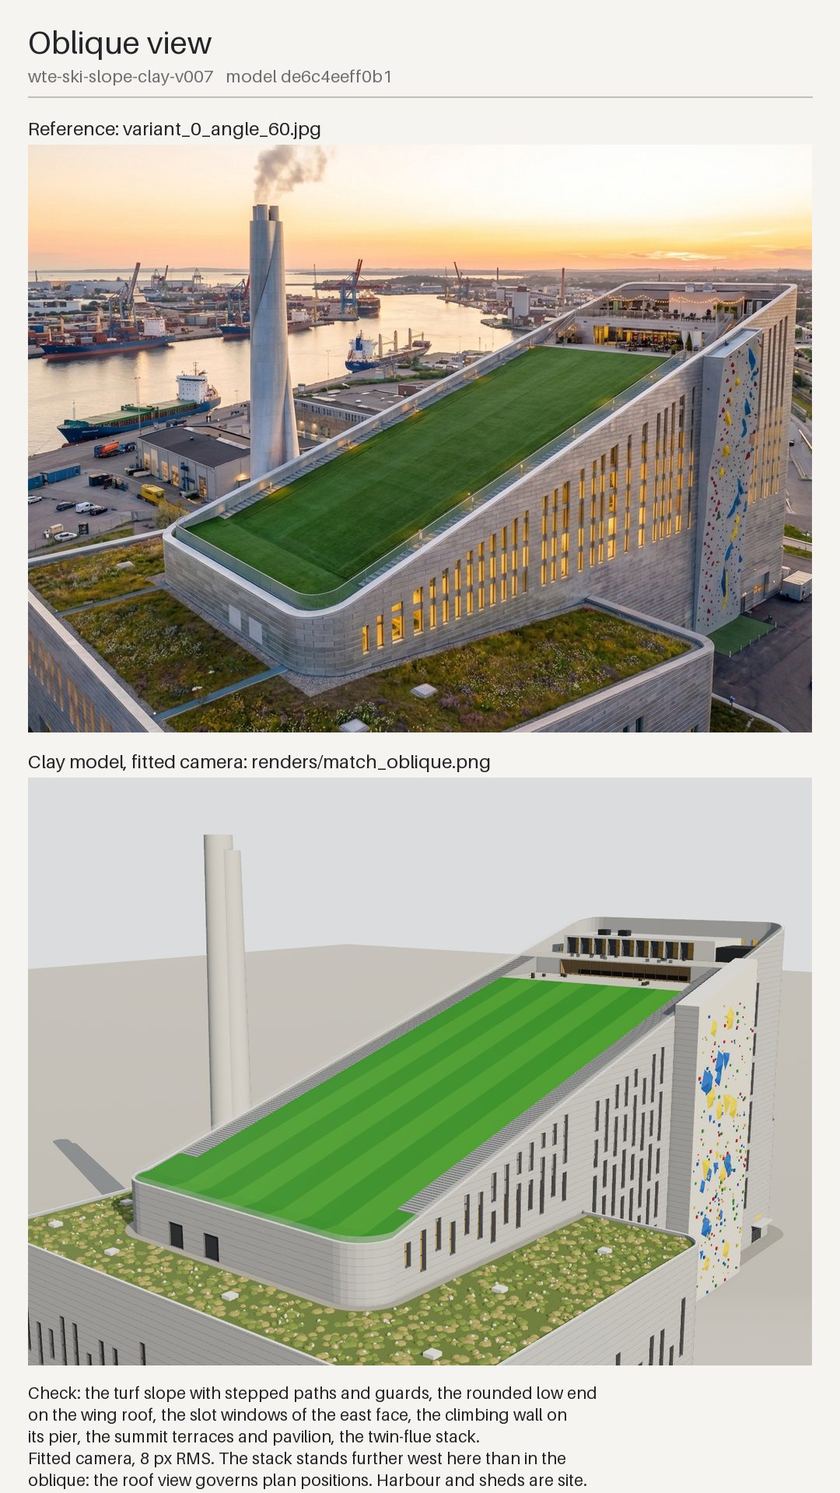
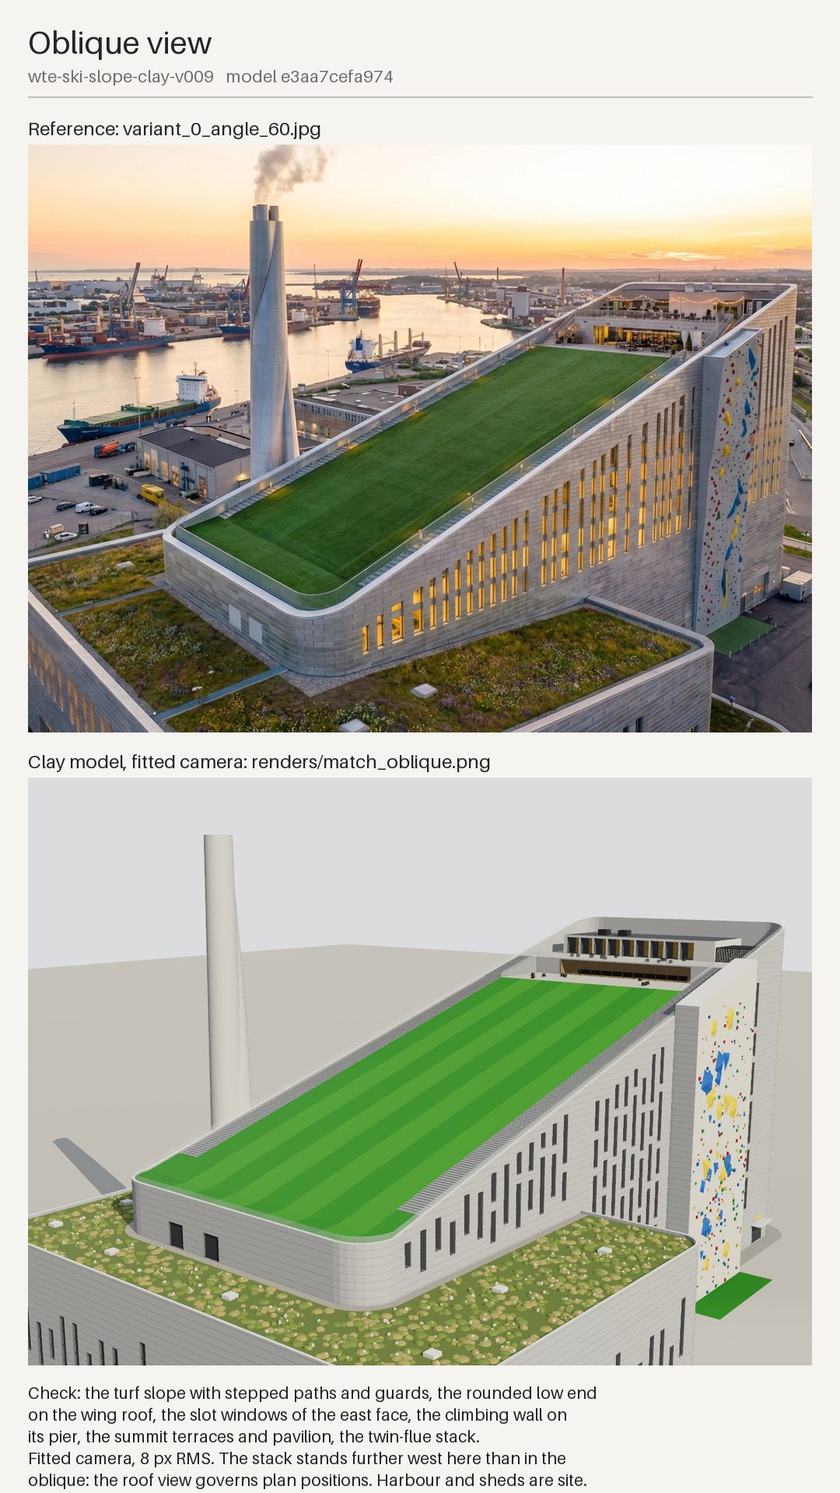
Answer the ski-slope plant's first review with v009
The v007 independent review refused the model with four P1 findings.
v009 answers them:

- The parapets' inside faces are drawn piece by piece from the walking
  surface, so no panel blocks the slot windows.
- Slot windows stop 1.2 m below the roof above them.
- The climbing pier is closed behind, and its holds stand off the panel.
- The summit flights are guarded.

Five notes are answered as well: the north corners, deeper slot rooms,
a winding twin flue, roof and door details, and the wing coping. The
repeat review is pending.

Claude-Session: https://claude.ai/code/session_01Qre8Fgc7mAHy1S8q3QQMRz

diff --git a/tools/catalogue_ski_slope_plant_pilot/build.py b/tools/catalogue_ski_slope_plant_pilot/build.py
@@ -68,9 +68,13 @@ SERVICE = [(-15.6, -11.8), (-6.4, -2.6)]          # service doors from the wing 
 WINGS = [(-47.7, -95.5, -HALF_W, -.6), (-47.7, -95.5, 55.3, -HALF_L), (HALF_W, -95.5, 55.3, -19.0),   # x0, y0, x1, y1
          (-41.8, -.6, -HALF_W, 47.3)]          # the west wing narrows to a strip running north beside the block
 WING_CORNER = 5.0
-STACK = ((-38.2, -46.5), 100.0, (3.6, 2.8), (1.9, 1.1), 97.0, (3.0, 2.2))   # main flue centre, top, radii; second flue offset, top, radii
+STACK = ((-38.2, -46.5), 100.0, (3.6, 2.8), (1.9, 1.1), 100.0, (3.0, 2.2))  # main flue centre, top, radii; second flue offset, top, radii
+TWIST = 110.0                                     # the second flue winds this far round the first, in degrees, base to top
 SLOT = (1.4, 3.7, 1.6)                            # slot windows: width, column spacing, gap between stacked slots
 COURSE = 1.25                                     # aluminium brick courses
+SLOT_ROOM = 1.4                                   # lit room face behind each slot window, from the outer face
+UNDER_FLOOR = 1.2                                 # slot windows stop this far below the roof's walking surface above them
+PAD = (35.3, 43.3, 16.3, 45.3)                    # turf pad at the foot of the climbing wall: x and y range
 APRON = 4.0
 
 PALETTE = {  # role -> flat colour (sRGB), in node order
@@ -91,6 +95,7 @@ PALETTE = {  # role -> flat colour (sRGB), in node order
     'furniture': {'colour': '#4b4540', 'module': 'summit terraces'},
     'pavilion': {'colour': '#d2d3d0', 'module': 'summit pavilion'},
     'grille': {'colour': '#3c4045', 'module': 'plant'},
+    'roof_dark': {'colour': '#5d6267', 'module': 'summit pavilion'},
     'roofgreen': {'colour': '#6c7b42', 'module': 'wing roofs'},
     'planting': {'colour': '#7a8a46', 'module': 'wing roofs'},
     'meadow': {'colour': '#a39a5f', 'module': 'wing roofs'},
@@ -120,6 +125,20 @@ def walk(y):
 
 Z_LOWER = walk(TERRACE_Y[0])
 Z_UPPER = Z_LOWER + UPPER_STEP
+
+
+def floor_at(y):
+    """The roof's walking surface at plan y: the slope, then the lower and upper summit terraces."""
+    if y >= TERRACE_Y[1]:
+        return Z_UPPER
+    if y >= TERRACE_Y[0]:
+        return Z_LOWER
+    return walk(y)
+
+
+def under_roof(y, half=1.0):
+    """Highest a slot window may reach at plan y: below the lowest walking surface within `half` metres."""
+    return min(floor_at(y - half), floor_at(y), floor_at(y + half)) - UNDER_FLOOR
 
 
 # ---- helpers ---------------------------------------------------------------------------------------
@@ -172,7 +191,9 @@ def main_block():
 def footprint():
     """The whole building at grade: the main block and its wings, convex corners rounded."""
     parts = [box(-HALF_W, -HALF_L, HALF_W, HALF_L)] + [box(*w) for w in WINGS]
-    return orient(shapely.union_all(parts).buffer(-WING_CORNER, quad_segs=8).buffer(WING_CORNER, quad_segs=8), 1.0)
+    whole = shapely.union_all(parts).buffer(-WING_CORNER, quad_segs=8).buffer(WING_CORNER, quad_segs=8)
+    slivers = box(-HALF_W, 0.0, HALF_W, HALF_L).difference(main_block())     # the block's own corner radius where it meets the ground
+    return orient(whole.difference(slivers), 1.0)
 
 
 # ---- facades with real openings --------------------------------------------------------------------
@@ -204,7 +225,7 @@ def build_face(clay, face, openings, role='cladding', courses=True):
     for o in openings:
         (u0, u1), (z0, z1) = o['u'], o['z']
         kind = o.get('kind', 'slot')
-        depth = o.get('depth', .9 if kind == 'slot' else .35)
+        depth = o.get('depth', SLOT_ROOM if kind == 'slot' else .35)
         reveal = 'reveal'
         corners = [(u0, z0), (u1, z0), (u1, z1), (u0, z1)]
         for (ua, za), (ub, zb) in pairwise(corners + corners[:1]):          # reveals, facing into the opening
@@ -254,7 +275,7 @@ def course_lines(clay, face, solid):
         z += COURSE
 
 
-def slot_columns(u_range, base, top, skip=(), seed=0):
+def slot_columns(u_range, base, top, skip=(), seed=0, limit=None):
     """Tall slot windows in staggered columns: each column a stack of slots of varied height."""
     width, spacing, gap = SLOT
     out = []
@@ -263,6 +284,8 @@ def slot_columns(u_range, base, top, skip=(), seed=0):
     while u <= u_range[1]:
         if not any(a - width <= u <= b + width for a, b in skip):
             z_lo, z_hi = base(u) + (8.0 if base(u) < 1 else 2.0), top(u) - (4.5 if base(u) < 1 else 2.2)
+            if limit is not None:
+                z_hi = min(z_hi, limit(u))
             z = z_lo + (k * 2.3) % 4.0
             j = k
             while z + 2.4 < z_hi:
@@ -291,17 +314,23 @@ def main_facades(clay):
     # east face (u = y, northward): the street front
     east = Face((HALF_W, 0.0), (0.0, 1.0), [(s0, HP), (WINGS[2][3], HP), (WINGS[2][3], 0.0), (s1, 0.0), (s1, parapet(s1)), (s0, parapet(s0))])
     openings = slot_columns((s0 + 3.0, s1 - 3.0), east_base, parapet, skip=[(PIER[2] - 1.0, PIER[3] + 1.0), (ENTRANCE[0] - 1.5, ENTRANCE[1] + 1.5),
-                                                                           (WINGS[2][3] - 2.0, WINGS[2][3] + 2.0)], seed=1)
+                                                                           (WINGS[2][3] - 2.0, WINGS[2][3] + 2.0)], seed=1, limit=under_roof)
     openings.append({'u': ENTRANCE[:2], 'z': (0.0, ENTRANCE[2]), 'kind': 'entrance', 'depth': 4.0})
     build_face(clay, east, openings)
     # west face (u = -y, southward)
     west = Face((-HALF_W, 0.0), (0.0, -1.0), [(-s1, 0.0), (-WINGS[3][3], 0.0), (-WINGS[3][3], HP), (-s0, HP), (-s0, parapet(s0)), (-s1, parapet(s1))])
     build_face(clay, west, slot_columns((-s1 + 3.0, -s0 - 3.0), lambda u: west_base(-u), lambda u: parapet(-u),
-                                        skip=[(-WINGS[3][3] - 2.0, -WINGS[3][3] + 2.0)], seed=4))
+                                        skip=[(-WINGS[3][3] - 2.0, -WINGS[3][3] + 2.0)], seed=4, limit=lambda u: under_roof(-u)))
     # north face (u = -x, westward): roller doors at grade, slots above
     north = Face((0.0, HALF_L), (-1.0, 0.0), [(-w1, 0.0), (-w0, 0.0), (-w0, HS), (-w1, HS)])
     doors = [{'u': (-b, -a), 'z': (0.0, 9.0), 'kind': 'door', 'depth': .4} for a, b in LOADING]
-    slots = [s for s in slot_columns((-w1 + 2.5, -w0 - 2.5), lambda u: 0.0, lambda u: HS, seed=2) if s['z'][0] > 12.0]
+    for a, b in LOADING:                                                   # slats of the roller doors
+        z = .45
+        while z < 9.0:
+            bar_box(clay, north, (-b, -a), (z - .03, z + .03), .34, .4)
+            z += .45
+    slots = [s for s in slot_columns((-w1 + 2.5, -w0 - 2.5), lambda u: 0.0, lambda u: HS, seed=2, limit=lambda u: Z_UPPER - UNDER_FLOOR)
+             if s['z'][0] > 12.0]
     build_face(clay, north, doors + slots)
     # south face (u = x, eastward): the low end above the wing roof, with two service doors
     south = Face((0.0, -HALF_L), (1.0, 0.0), [(w0, HP), (w1, HP), (w1, H0), (w0, H0)])
@@ -343,13 +372,15 @@ def pier(clay):
                                                      (-sign * x1 if sign < 0 else -x0, top(y)), (-sign * x0 if sign < 0 else -x1, top(y))])
         build_face(clay, side, [])
     clay.quad('coping', (x0, y0, top(y0)), (x1, y0, top(y0)), (x1, y1, top(y1)), (x0, y1, top(y1)), facing=(0, 0, 1))
+    clay.quad('cladding', (x0, y0, parapet(y0)), (x0, y1, parapet(y1)), (x0, y1, top(y1)), (x0, y0, top(y0)), facing=(-1, 0, 0))   # back, above the parapet
+    flat_region(clay, 'turf', box(PAD[0], PAD[2], PAD[1], PAD[3]), .04)
     rng = np.random.default_rng(1601)
     colours = ['hold_blue', 'hold_red', 'hold_yellow', 'hold_green']
     for _ in range(26):                                                    # large volumes
         y, z = rng.uniform(y0 + 2, y1 - 2), rng.uniform(1.5, top(y0) - 4)
         size = rng.uniform(1.0, 2.6)
         sides = int(rng.integers(3, 6))
-        ring = [(x1, y + size * math.cos(2 * math.pi * k / sides + .4), z + size * 1.3 * math.sin(2 * math.pi * k / sides + .4)) for k in range(sides)]
+        ring = [(x1 + .03, y + size * math.cos(2 * math.pi * k / sides + .4), z + size * 1.3 * math.sin(2 * math.pi * k / sides + .4)) for k in range(sides)]
         apex = (x1 + size * .35, y, z)
         role = 'hold_blue' if rng.random() < .55 else 'hold_yellow'
         for a, b in pairwise(ring + ring[:1]):
@@ -357,11 +388,11 @@ def pier(clay):
     for _ in range(240):                                                   # holds
         y, z = rng.uniform(y0 + .6, y1 - .6), rng.uniform(.4, top(y0) - 1.0)
         s = rng.uniform(.15, .35)
-        clay.box(colours[int(rng.integers(0, 4))], x1, x1 + s * .8, y - s, y + s, z - s, z + s)
+        clay.box(colours[int(rng.integers(0, 4))], x1 + .03, x1 + .03 + s * .8, y - s, y + s, z - s, z + s)
 
 
 # ---- the roof: turf, stepped paths, terraces and summit --------------------------------------------
-def stair_flight(clay, x0, x1, y0, y1, z0, z1, floor=None):
+def stair_flight(clay, x0, x1, y0, y1, z0, z1, floor=None, sides=None):
     """A straight flight between plan y0 and y1 from z0 to z1, as solid steps standing on the plane between;
     with `floor`, the flight stands on a level floor and its sides are closed down to it."""
     count = max(1, round((z1 - z0) / RISE))
@@ -371,10 +402,10 @@ def stair_flight(clay, x0, x1, y0, y1, z0, z1, floor=None):
         za, zb = z0 + rise * k, z0 + rise * (k + 1)
         clay.quad('stair', (x0, ya, za), (x1, ya, za), (x1, ya, zb), (x0, ya, zb), facing=(0, -1, 0))
         clay.quad('stair', (x0, ya, zb), (x1, ya, zb), (x1, yb, zb), (x0, yb, zb), facing=(0, 0, 1))
-        for x in (x0, x1):                                                 # step sides above the sloping plane
+        for x in sides or (x0, x1):                                        # step sides above the sloping plane
             clay.tri('stair', (x, ya, za), (x, ya, zb), (x, yb, zb), facing=(1 if x == max(x0, x1) else -1, 0, 0))
     if floor is not None:
-        for x in (x0, x1):
+        for x in sides or (x0, x1):
             clay.tri('stair', (x, y0, floor), (x, y1, floor), (x, y1, z1), facing=(1 if x == max(x0, x1) else -1, 0, 0))
 
 
@@ -399,10 +430,13 @@ def roof(clay):
         strip = inner.intersection(box(min(side * STAIR_X, side * (INNER + 1)), STAIR_Y[0], max(side * STAIR_X, side * (INNER + 1)), TERRACE_Y[0]))
         surface(clay, 'gravel', strip, lambda x, y: walk(y))
         xa, xb = sorted((side * TURF_X, side * STAIR_X))
-        stair_flight(clay, xa, xb, TERRACE_Y[0], TERRACE_Y[1], Z_LOWER, Z_UPPER, floor=Z_LOWER)
-        strip = box(min(side * STAIR_X, side * INNER), TERRACE_Y[0], max(side * STAIR_X, side * INNER), TERRACE_Y[1])
-        flat_region(clay, 'gravel', strip, Z_LOWER)
-        wall(clay, 'cladding', (side * STAIR_X, TERRACE_Y[1]), (side * INNER, TERRACE_Y[1]), Z_LOWER, Z_UPPER, (0, -1))
+        xa, xb = sorted((side * TURF_X, side * INNER))                     # summit flights run to the parapet; guarded on the open side
+        stair_flight(clay, xa, xb, TERRACE_Y[0], TERRACE_Y[1], Z_LOWER, Z_UPPER, floor=Z_LOWER, sides=(side * TURF_X,))
+        x = side * TURF_X
+        clay.quad('guard', (x, TERRACE_Y[0], Z_LOWER), (x, TERRACE_Y[1], Z_UPPER), (x, TERRACE_Y[1], Z_UPPER + GUARD),
+                  (x, TERRACE_Y[0], Z_LOWER + GUARD), facing=(-side, 0, 0))
+        clay.quad('mullion', (x, TERRACE_Y[0], Z_LOWER + GUARD), (x, TERRACE_Y[1], Z_UPPER + GUARD), (x, TERRACE_Y[1], Z_UPPER + GUARD + .05),
+                  (x, TERRACE_Y[0], Z_LOWER + GUARD + .05), facing=(-side, 0, 0))
     # lower terrace between the flights, the bar under the upper terrace, and the upper terrace
     flat_region(clay, 'terrace', box(-TURF_X, TERRACE_Y[0], TURF_X, TERRACE_Y[1]), Z_LOWER)
     bx0, bx1, depth = BAR
@@ -430,21 +464,24 @@ def roof(clay):
     ring = list(inner.exterior.coords)
     outer = list(main_block().exterior.coords)
 
-    def floor_at(x, y):
-        if y >= yf:
-            return Z_UPPER
-        if y >= TERRACE_Y[0]:
-            return Z_LOWER
-        return walk(y)
-    for p, q in pairwise(ring):
-        n = plan_normal(q, p)                                              # inside faces look inward
-        zp, zq = floor_at(*p), floor_at(*q)
-        tp, tq = parapet(p[1]), parapet(q[1])
-        if p[1] > 0 and q[1] > 0 and abs(p[0]) < HALF_W - CORNER and abs(q[0]) < HALF_W - CORNER:
-            tp = tq = HS
-        if (p[1] - yf) * (q[1] - yf) < 0 or (p[1] - TERRACE_Y[0]) * (q[1] - TERRACE_Y[0]) < 0:
-            zp = zq = min(zp, zq)
-        clay.quad('cladding', (*p, min(zp, tp)), (*q, min(zq, tq)), (*q, tq), (*p, tp), facing=(*n, 0))
+    for p, q in pairwise(ring):                                            # inside faces, in short pieces, look inward
+        n = plan_normal(q, p)
+        cuts = sorted({0.0, 1.0} | {(c - p[1]) / (q[1] - p[1]) for c in (TERRACE_Y[0], yf) if (p[1] - c) * (q[1] - c) < 0})
+        pieces = []
+        for t0, t1 in pairwise(cuts):
+            k = max(1, math.ceil(math.dist(p, q) * (t1 - t0) / 1.0))
+            pieces += [(t0 + (t1 - t0) * j / k, t0 + (t1 - t0) * (j + 1) / k) for j in range(k)]
+        for t0, t1 in pieces:
+            a = (p[0] + (q[0] - p[0]) * t0, p[1] + (q[1] - p[1]) * t0)
+            b = (p[0] + (q[0] - p[0]) * t1, p[1] + (q[1] - p[1]) * t1)
+            mid = (a[1] + b[1]) / 2
+            zone = Z_UPPER if mid >= yf else Z_LOWER if mid >= TERRACE_Y[0] else None
+            za, zb = (zone, zone) if zone is not None else (walk(a[1]), walk(b[1]))
+            ta, tb = parapet(a[1]), parapet(b[1])
+            if a[1] > 0 and b[1] > 0 and abs(a[0]) < HALF_W - CORNER + 1e-6 and abs(b[0]) < HALF_W - CORNER + 1e-6:
+                ta = tb = HS
+            if ta - za > 1e-4 or tb - zb > 1e-4:
+                clay.quad('cladding', (*a, min(za, ta)), (*b, min(zb, tb)), (*b, tb), (*a, ta), facing=(*n, 0))
     for (p, q), (pi, qi) in zip(pairwise(outer), pairwise(_matching(outer, ring))):
         tp, tq = _top(p), _top(q)
         clay.quad('coping', (*p, tp), (*q, tq), (*qi, tq), (*pi, tp), facing=(0, 0, 1))
@@ -460,11 +497,19 @@ def roof(clay):
     build_face(clay, pav, glazing, role='pavilion', courses=False)
     for (a, b), n in ((((x1, y0), (x1, y1)), (1, 0)), (((x1, y1), (x0, y1)), (0, 1)), (((x0, y1), (x0, y0)), (-1, 0))):
         wall(clay, 'pavilion', a, b, Z_UPPER, Z_UPPER + h, n)
-    flat_region(clay, 'pavilion', box(x0, y0, x1, y1), Z_UPPER + h)
+    flat_region(clay, 'roof_dark', box(x0, y0, x1, y1), Z_UPPER + h)
     for cx in (x0 + 8, x0 + 14):
         clay.box('grille', cx, cx + 2.6, y0 + 4, y0 + 6.4, Z_UPPER + h, Z_UPPER + h + 1.5)
     px0, px1, py0, py1, ph = PLANT
     clay.box('grille', px0 + .2, px1, py0, py1, Z_UPPER, Z_UPPER + ph)
+    x = px0 + .6
+    while x < px1 - .2:                                                    # louvres on the plant enclosure's south face
+        clay.box('pavilion', x - .04, x + .04, py0 - .12, py0, Z_UPPER + .2, Z_UPPER + ph - .2)
+        x += .45
+    y = py0 + .5
+    while y < py1 - .2:                                                    # and on its west face
+        clay.box('pavilion', px0 + .08, px0 + .2, y - .04, y + .04, Z_UPPER + .2, Z_UPPER + ph - .2)
+        y += .45
     rng = np.random.default_rng(77)
     for _ in range(14):
         x, y = rng.uniform(-20, 16), rng.uniform(yf + 2, y0 - 2)
@@ -515,8 +560,8 @@ def wings(clay):
                 z += COURSE
     inset = orient(whole.buffer(-.5, quad_segs=8), 1.0)
     coping = roof_zone.difference(inset)
-    flat_region(clay, 'coping', coping.difference(mb.buffer(.6)), HP + .6)
-    upstand = inset.exterior.difference(mb.buffer(.6))
+    flat_region(clay, 'coping', coping, HP + .6)
+    upstand = inset.exterior.difference(mb.buffer(.001))
     for seg in getattr(upstand, 'geoms', [upstand]):
         for p, q in pairwise(list(seg.coords)):
             wall(clay, 'cladding', p, q, HP, HP + .6, plan_normal(q, p))
@@ -562,17 +607,24 @@ def mound(clay, role, x, y, radius, height, sides, z0):
 
 
 def stack(clay):
-    """Twin flues merged into one tapering stack, rising from the west wing roof."""
-    (cx, cy), top, (r0, r1), (dx, dy), top2, (q0, q1) = STACK
-    for (x, y), z1, (a, b) in (((cx, cy), top, (r0, r1)), ((cx + dx, cy + dy), top2, (q0, q1))):
+    """Twin flues merged into one tapering stack, the second winding round the first, rising from the west wing roof."""
+    (cx, cy), top, (r0, r1), (dx, dy), _, (q0, q1) = STACK
+    steps = 14
+    for twist, (a, b) in ((False, (r0, r1)), (True, (q0, q1))):
         rings = []
-        for z, r in ((HP, a), (z1, b)):
-            rings.append([(x + r * math.cos(2 * math.pi * k / 28), y + r * math.sin(2 * math.pi * k / 28), z) for k in range(28)])
+        for k in range(steps + 1):
+            f = k / steps
+            z, r = HP + (top - HP) * f, a + (b - a) * f
+            ang = math.radians(TWIST * f) if twist else 0.0
+            ox, oy = (dx * math.cos(ang) - dy * math.sin(ang), dx * math.sin(ang) + dy * math.cos(ang)) if twist else (0.0, 0.0)
+            rings.append([(cx + ox + r * math.cos(2 * math.pi * j / 28), cy + oy + r * math.sin(2 * math.pi * j / 28), z) for j in range(28)])
         clay.loft('stack', rings, caps=(False, False), smooth=40)
-        inner = [(x + (b - .35) * math.cos(2 * math.pi * k / 28), y + (b - .35) * math.sin(2 * math.pi * k / 28)) for k in range(28)]
-        lip = Polygon([(x + b * math.cos(2 * math.pi * k / 28), y + b * math.sin(2 * math.pi * k / 28)) for k in range(28)]).difference(Polygon(inner))
-        flat_region(clay, 'stack', lip, z1)
-        flat_region(clay, 'flue', Polygon(inner), z1 - .6)
+    ang = math.radians(TWIST)
+    tx, ty = cx + dx * math.cos(ang) - dy * math.sin(ang), cy + dx * math.sin(ang) + dy * math.cos(ang)
+    outer = Point(cx, cy).buffer(r1, quad_segs=7).union(Point(tx, ty).buffer(q1, quad_segs=7))
+    flues = Point(cx, cy).buffer(r1 - .35, quad_segs=7).union(Point(tx, ty).buffer(q1 - .35, quad_segs=7))
+    flat_region(clay, 'stack', outer.difference(flues), top)
+    flat_region(clay, 'flue', flues, top - .6)
 
 
 def rotate(clay):

diff --git a/tools/catalogue_ski_slope_plant_pilot/integration/runtime-review.md b/tools/catalogue_ski_slope_plant_pilot/integration/runtime-review.md
@@ -11,7 +11,7 @@ No pass is carried over from any other archetype.
 
 - Kind: building
 - Archetype ID and exact variant ID: `waste_to_energy_plant` / `wte_ski_slope` (variant 0, "Ski Slope WtE")
[2 lines of base64/hex data omitted]
 - Runtime source commit and integration-checklist version: not run. Branch based on `deployment-version`; checklist as at that commit
 - Reviewer, date, project URL, viewport/device/input: none. No project was opened
 - Vacant test site, protected reference, disposable test project: none
@@ -27,7 +27,7 @@ No pass is carried over from any other archetype.
 - Reference-image fidelity: exact image hashes, observed amenity cues, borrowed/inferred details, native before/after views and separately exported reusable amenity modules: two references locked by hash in `prework-manifest.json`; the variant's street view is a grey render of the old LEGO model and is excluded (Gate A open for a person). The roof view draws the stack leaning; its base follows the roof view and its height the oblique. The west and north faces, the wings' southern end and all interiors are inferred. No amenity modules
 - Native park seams and raised/cycle access: full-width closed-loop/bend support, local-origin furniture transforms, measured ramp/landing or track-entry height continuity; separate offline contacts from runtime slope walking: N/A: building only; the model contains no such element
 - Street asset handoff: metric band widths, metre-scale paving phase, supported full-width endpoints, native amenity contacts, and flush versus raised boarding/kerb limitations: N/A: building only; the model contains no such element
-- Asset review status and separate publication/activation status: Independent architectural-clay review pending. That is asset review only. Publication and activation: not authorized
+- Asset review status and separate publication/activation status: v007 was refused by independent review (four P1; evidence/independent-review-v007.json); v009 answers those findings and its repeat review is pending. That is asset review only. Publication and activation: not authorized
 - Model Library storage check, configured bucket and result (building GLBs): NOT RUN. The GLB is not in the model library
 - Fresh installation: exact binding/recipe/module seed, byte readback, conflict preservation and disposable DB/bucket evidence: NOT RUN
 - Evidence manifest location and hashes; durable shared location for delivery: `tools/catalogue_ski_slope_plant_pilot/evidence/` and `candidate.json`. Renders and boards exist only in the build session's ignored `artifacts/` directory, which is not durable shared storage; `evidence/phone-oblique.jpg` is the one board kept in Git
@@ -240,7 +240,7 @@ These checks cannot prefill runtime terrain, access or edit/recovery passes.
 - Whole-site graph matches road-only graph; bounded road-ground recovery after new tiles:
 - Open failures, untested advertised features, owner and next bounded action: everything above marked NOT TESTED. Next bounded action: a ruling on Gate A by a person, then a local install with `--local-trial` and the student trial in `docs/BUILDING_CATALOGUE_WORKFLOW.md`, on a prepared level plot of at least 190 m by 115 m
 - Runtime integration decision: NOT REVIEWED
-- Asset visual decision (separate): builder pass. Independent architectural-clay review pending.
+- Asset visual decision (separate): builder pass. v007 was refused by independent review (four P1; evidence/independent-review-v007.json); v009 answers those findings and its repeat review is pending.
 - Publication/activation authorization (separate; cite actual authorization): none given
 
 A passing solver, successful compiler, CLI preflight, or attractive screenshot

diff --git a/tools/catalogue_ski_slope_plant_pilot/README.md b/tools/catalogue_ski_slope_plant_pilot/README.md
@@ -13,29 +13,31 @@ local pilot: not in the catalogue, not runtime-tested and not approved for publi
   - Its parapet climbs in one straight line from 39.5 m at the low end to the 80.2 m
     summit, as the oblique shows.
   - The long faces carry tall slot windows in staggered columns. Each one is cut through
-    the wall, with reveals, glass, glazing bars and a lit room face behind.
+    the wall, with reveals, glass, glazing bars and a lit room face 1.4 m behind, and stops
+    1.2 m below the walking surface above it.
 - **The roof:**
   - one green turf slope in groomed stripes;
   - a stepped path down each side, with 0.18 m risers, and gravel edge strips;
   - parapets with a glass guard beside the slope.
 - **The summit:**
   - a lower terrace with tables, in front of a glazed bar with a lit interior;
-  - short flights up to the upper terrace, which has a glass guard;
-  - a pavilion with lit glazing and rooftop units, and a plant enclosure.
+  - short flights up to the upper terrace, guarded on their open side, and a glass guard
+    along the upper terrace's front;
+  - a pavilion with lit glazing, a dark roof and rooftop units, and a louvred plant enclosure.
 - **Street front** (the long east face of the roof view, facing -y):
   - a visitor entrance, cut into the wall with framed glazed doors under a transom, a
     canopy and a lit sign;
-  - a climbing wall on a pier standing 5.3 m proud of the face, with 26 large volumes and
-    240 holds in four colours.
-- **Other doors:** two roller doors in the back (north) end; two service doors from the
-  wing roof into the low end.
+  - a climbing wall on a closed pier standing 5.3 m proud of the face, with 26 large volumes
+    and 240 holds in four colours, and a turf pad at its foot.
+- **Other doors:** two slatted roller doors in the back (north) end; two service doors from
+  the wing roof into the low end.
 - **Wings:** green-roofed wings 29.8 m high wrap the south half and run north beside the
   block as a narrow west strip. They have planting, gravel strips, hatches and an upstand,
   with slot windows on their straight walls.
-- **Stack:** twin flues merged into one tapering stack, 100 m high, standing in a gravel ring
-  on the west wing roof.
+- **Stack:** twin tapering flues, the second winding 110 degrees round the first, both 100 m
+  high, standing in a gravel ring on the west wing roof.
 - **Size:** a 4 m apron round the whole. The complete model is 183 m by 111 m by 100 m, with
-  about 66,000 triangles in 30 clay roles, 4.7 MB, and no textures.
+  about 67,000 triangles in 31 clay roles, 4.7 MB, and no textures.
 
 ## Sources and conflicts
 
@@ -79,11 +81,11 @@ Open for a person to rule on:
 ## Reproduce
 
 ```bash
-python3 tools/catalogue_ski_slope_plant_pilot/build.py --output artifacts/ski-slope/v007 --version 7
+python3 tools/catalogue_ski_slope_plant_pilot/build.py --output artifacts/ski-slope/v009 --version 9
 python3 -m http.server 8765 --bind 127.0.0.1 &          # from the repository root
-node tools/catalogue_ski_slope_plant_pilot/render.cjs artifacts/ski-slope/v007/wte-ski-slope-clay-v007.glb artifacts/ski-slope/v007/renders
-python3 tools/catalogue_ski_slope_plant_pilot/boards.py artifacts/ski-slope/v007
-python3 tools/catalogue_ski_slope_plant_pilot/verify.py artifacts/ski-slope/v007
+node tools/catalogue_ski_slope_plant_pilot/render.cjs artifacts/ski-slope/v009/wte-ski-slope-clay-v009.glb artifacts/ski-slope/v009/renders
+python3 tools/catalogue_ski_slope_plant_pilot/boards.py artifacts/ski-slope/v009
+python3 tools/catalogue_ski_slope_plant_pilot/verify.py artifacts/ski-slope/v009
 python3 -m pytest tools/catalogue_ski_slope_plant_pilot
 ```
 
